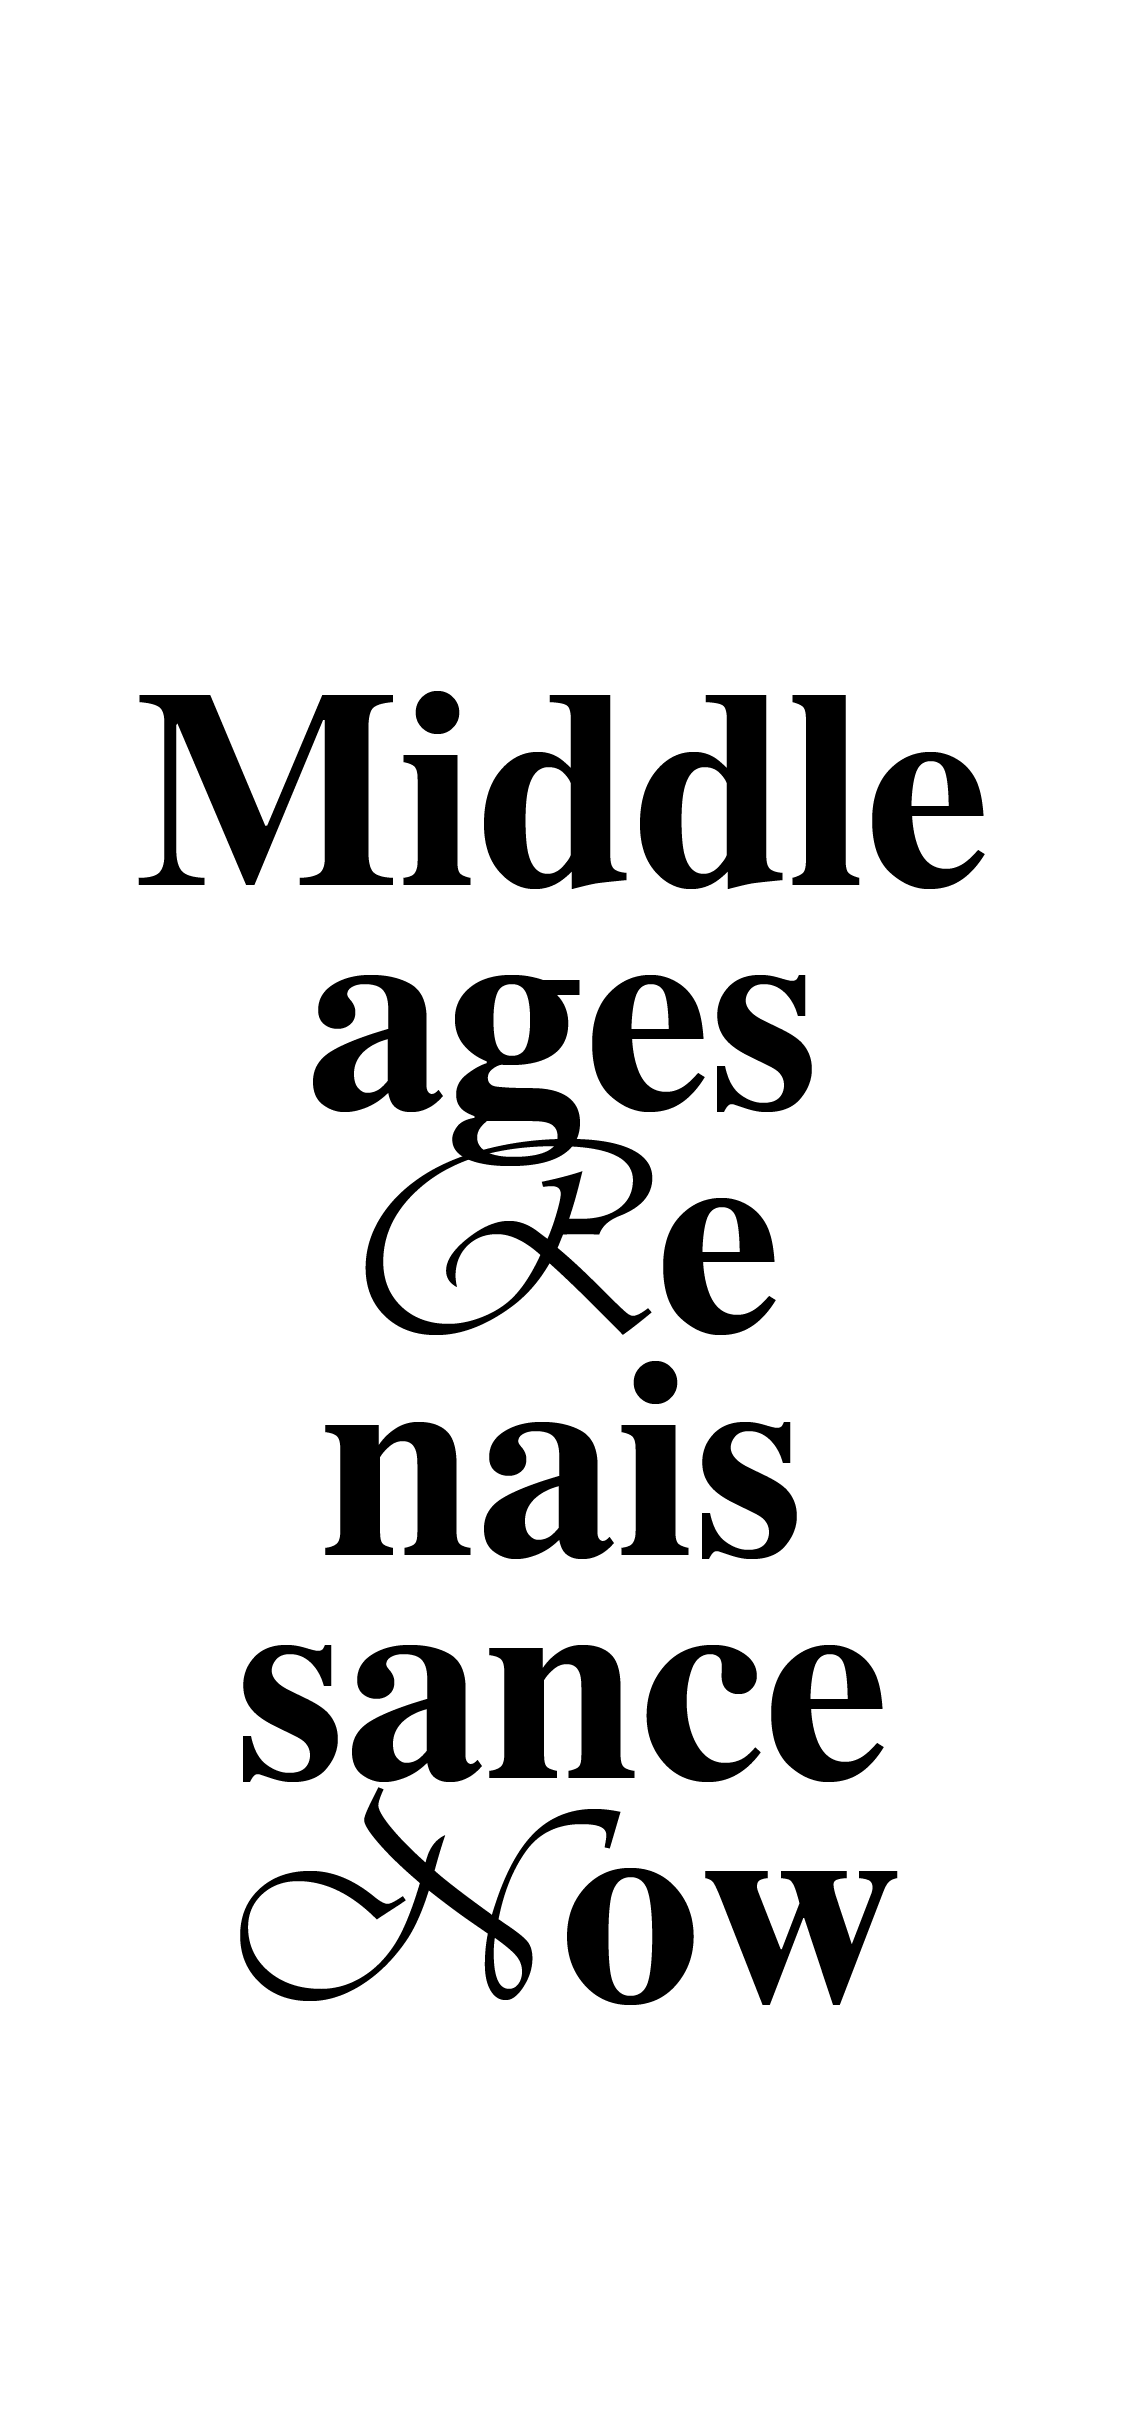
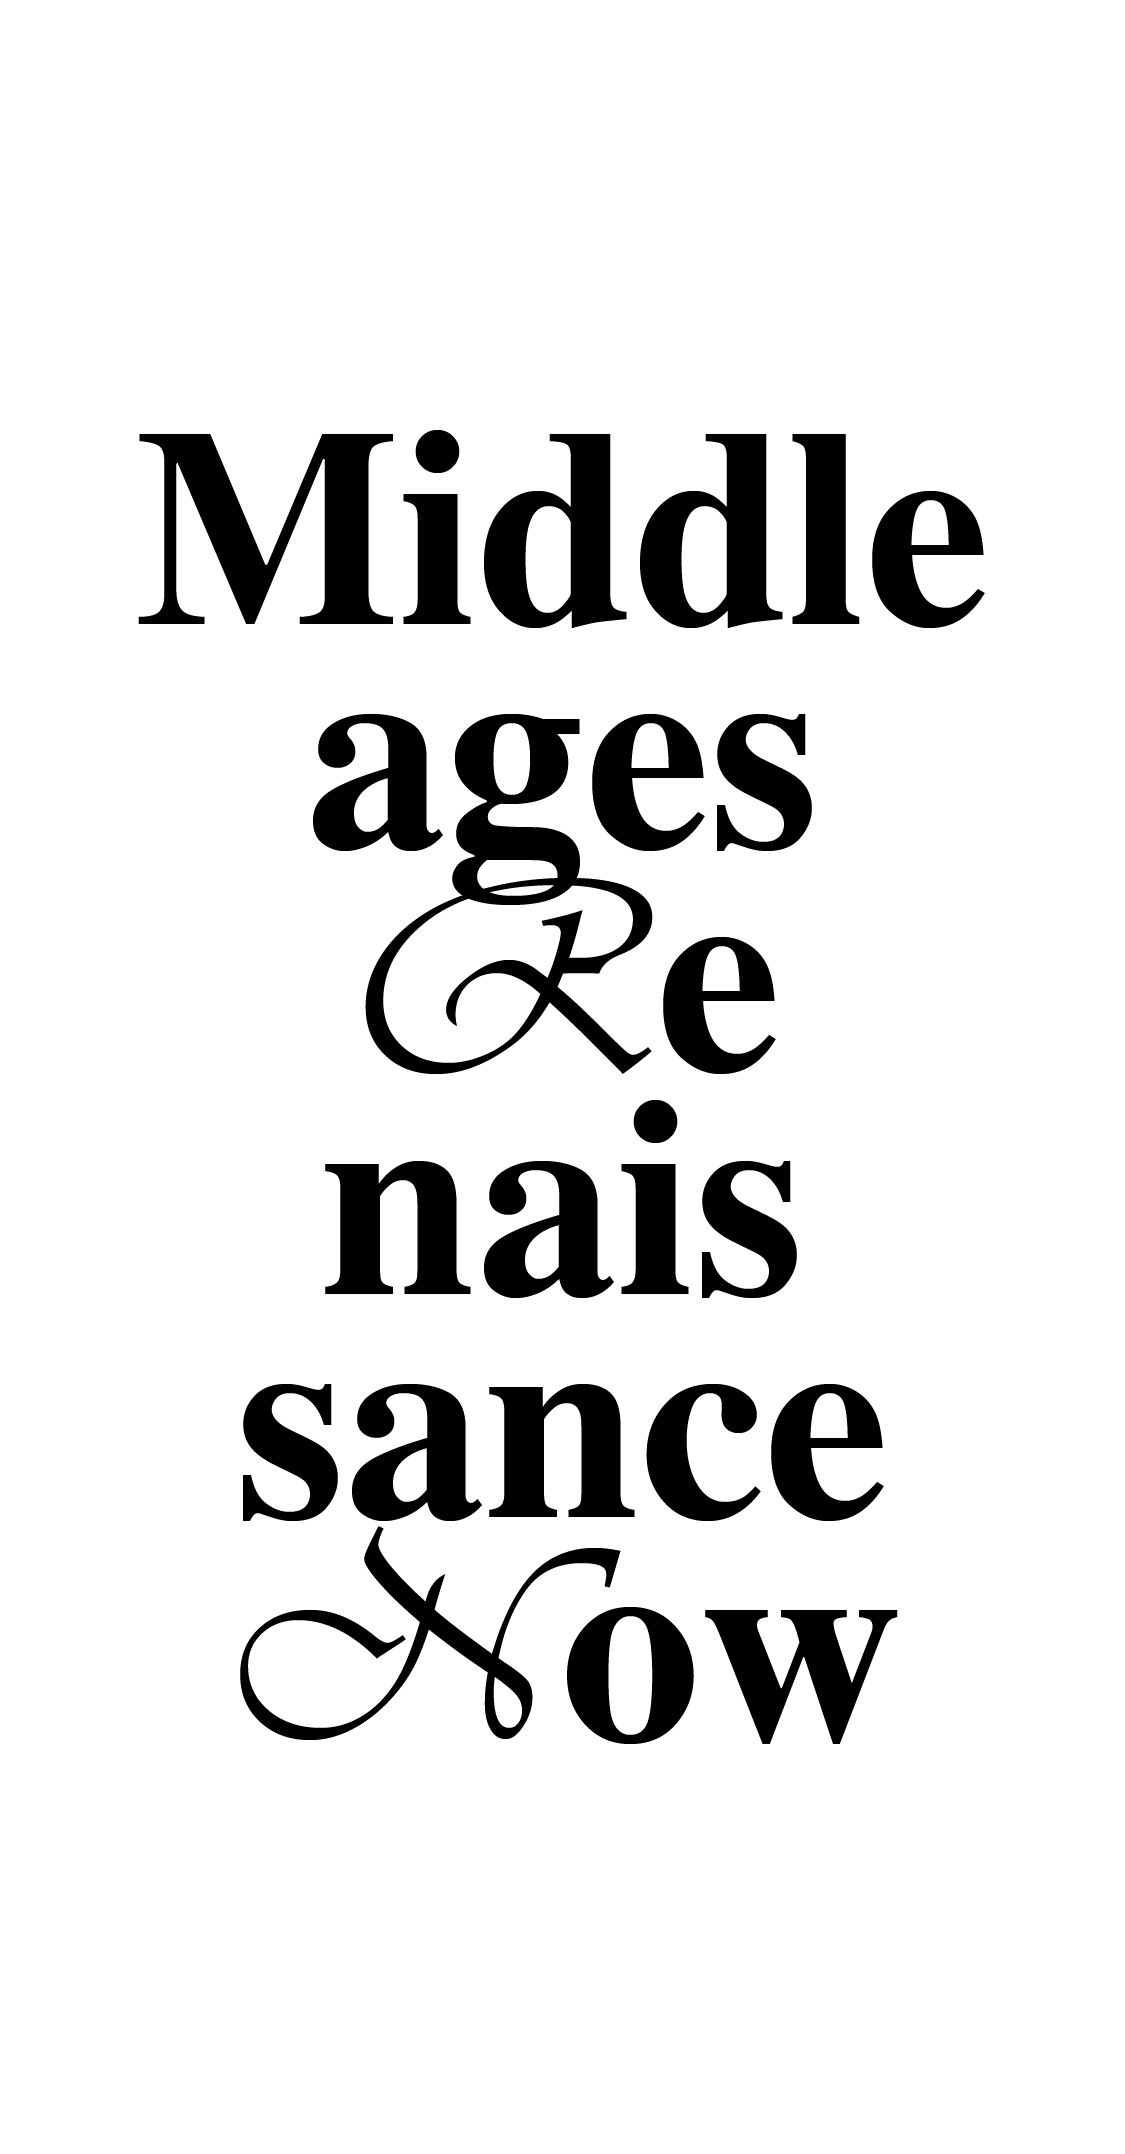
++

Changed region(s): [[0.1244, 0.1866, 0.8711, 0.8398]]

diff --git a/index.html b/index.html
@@ -58,15 +58,12 @@
                         <div class=skip>Skip Chapter</div>
                     </div>
                 </div>
-                <div class="slide p3">
+                <div class="slide p3_title">
                     <div class="container">
-                        <div class="text">
-                            Facing the last stages of late capitalism,we predict the dawn of a new way of working for the creative class.
+                        <div class="paradigm_text">
+                            Facing the last stages of late capitalism, we predict the <br> dawn of a new way of working for the creative class.
                             <br>
                             Text: Kay Kasparhauser & Katharina Korbjuhn
-                        </div>
-                        <div class="images">
-                            <img src="images/paradigm/titel_paradigm2.png">
                         </div>
                     </div>
                 </div>
@@ -79,20 +76,24 @@
                     </div>
                 </div> 
                 <div class="slide p3">
-                    <div class="text">
+                    <div class="text equation">
                        <br><br>
                         I. ) <br>
 	                    INTERNET = REAL-TIME <br>
-	                    ANALOG = SLOW-MOTION <br><br>
+	                    ANALOG = SLOW-MOTION <br>
+                    </div>
+                    <div class="text">
                         The Internet is the new real-time. Reality is happening here; all the time, everywhere, at lightning speed, source unknown. Subcultures formerly residing in the streets can now be found in Reddit threads and private chats. Streetwear will soon be replaced by Internetwear. The analog interprets the digital in slow motion → From setting the agenda to interpreting the agenda. Humans, unable to cope with the speed at which information is presented, burn out. Analog magazines that don’t shift gears shut down. Maybe you should just be a newsletter!
                     </div>
                 </div>
                 <div class="slide p3">
-                    <div class="text">
+                    <div class="text equation">
                         <br><br>
                         II. )<br>
 	                    APPROACHABILITY VS.<br>
 	                    EXCLUSIVITY <br><br>
+                    </div>
+                    <div class="text">
 	                    The battle between being accessible, woke, and believing in a better world vs. creating desire through exclusivity, gate-keeping, and making money, is reaching primetime. This tension reflects our internal, individual struggle of being fluid – stylists, creative directors, DJs all at once – and the commercial drive to act territorial about our identity. The success of the individual genius is outdated. Time to examine how to make non-territorial wokeness profitable.
                     </div>
                 </div>
@@ -129,11 +130,7 @@
                         Fashion stole from everything and everyone. Now everyone is stealing from fashion. Fashion as an industry became more about marketing and less about the craft. When Ferrari can drop a clothing line, we have to wonder: What does it mean to be a fashion brand today? Will designers drop in and out of mattress brands, Ikea and Toyota? Is Toyota the new Balenciaga? What do we have left to defend the fortress?
                     </div>
                 </div>
-                <div class="slide p3">
-                    <div class="image"> 
-                        <img src="images/paradigm/middle_age.png">
-                    </div>
-                </div>
+             <div class="slide p3_middle"></div>
             </div>
 
             <div class="section s4">
